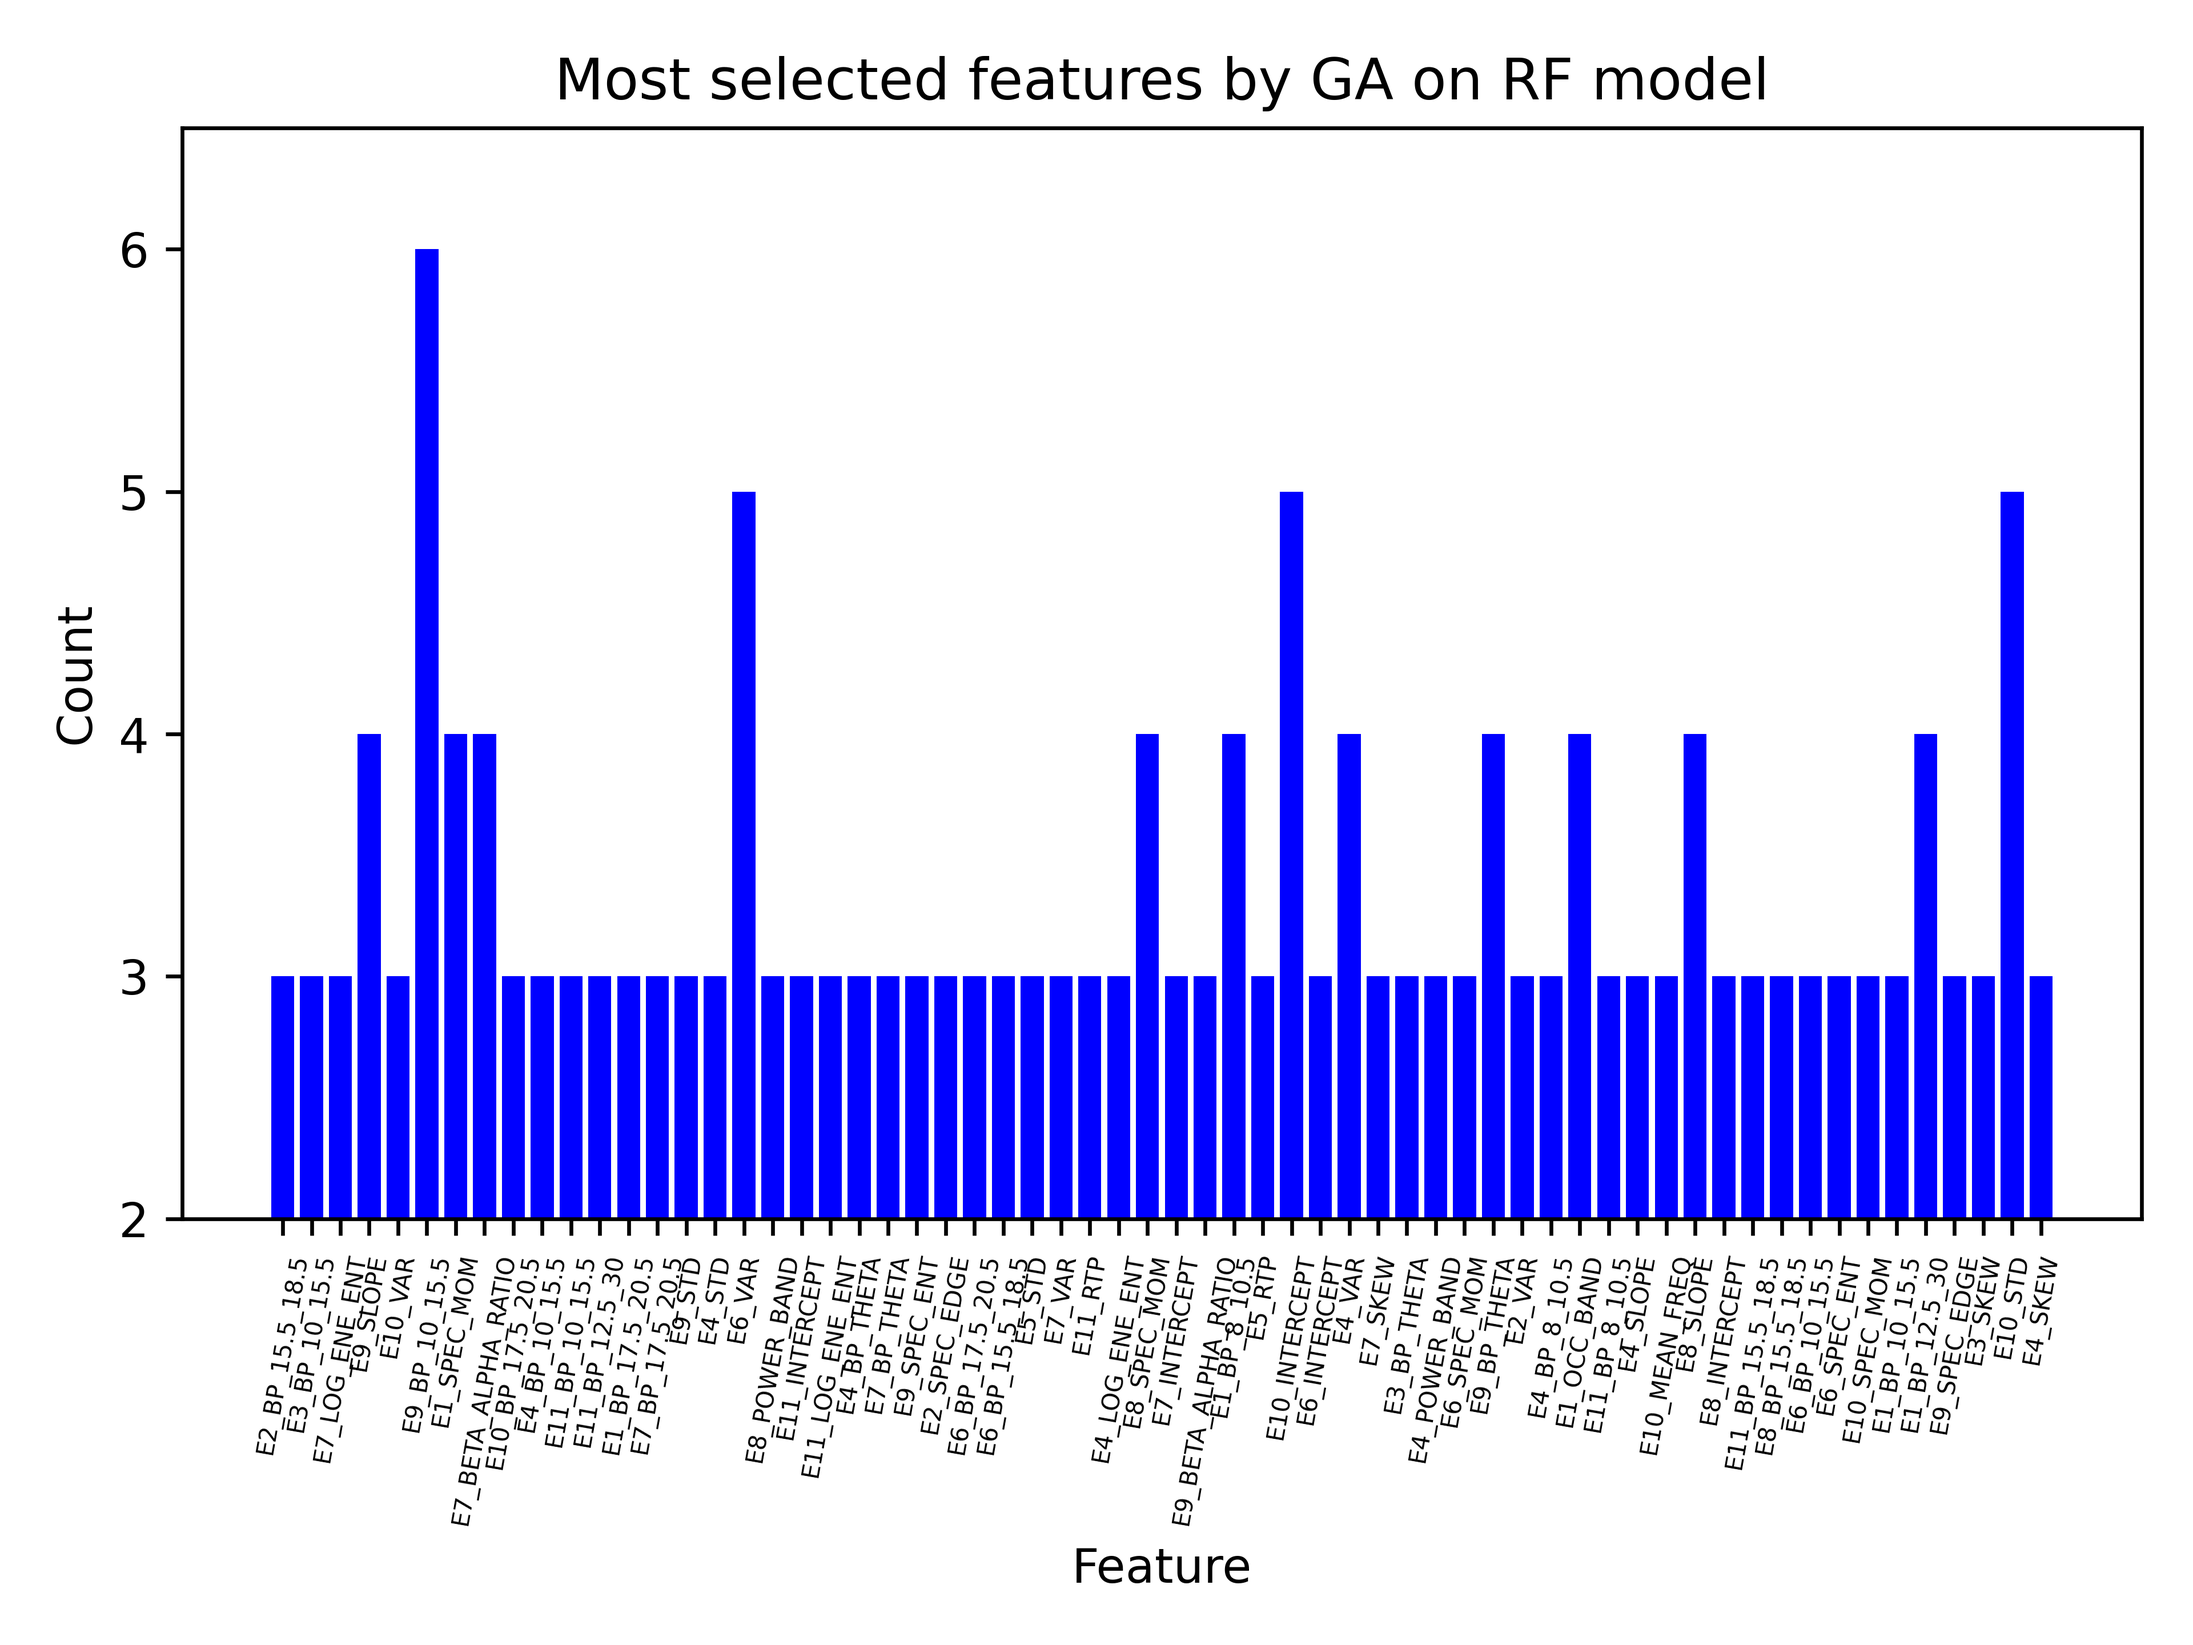
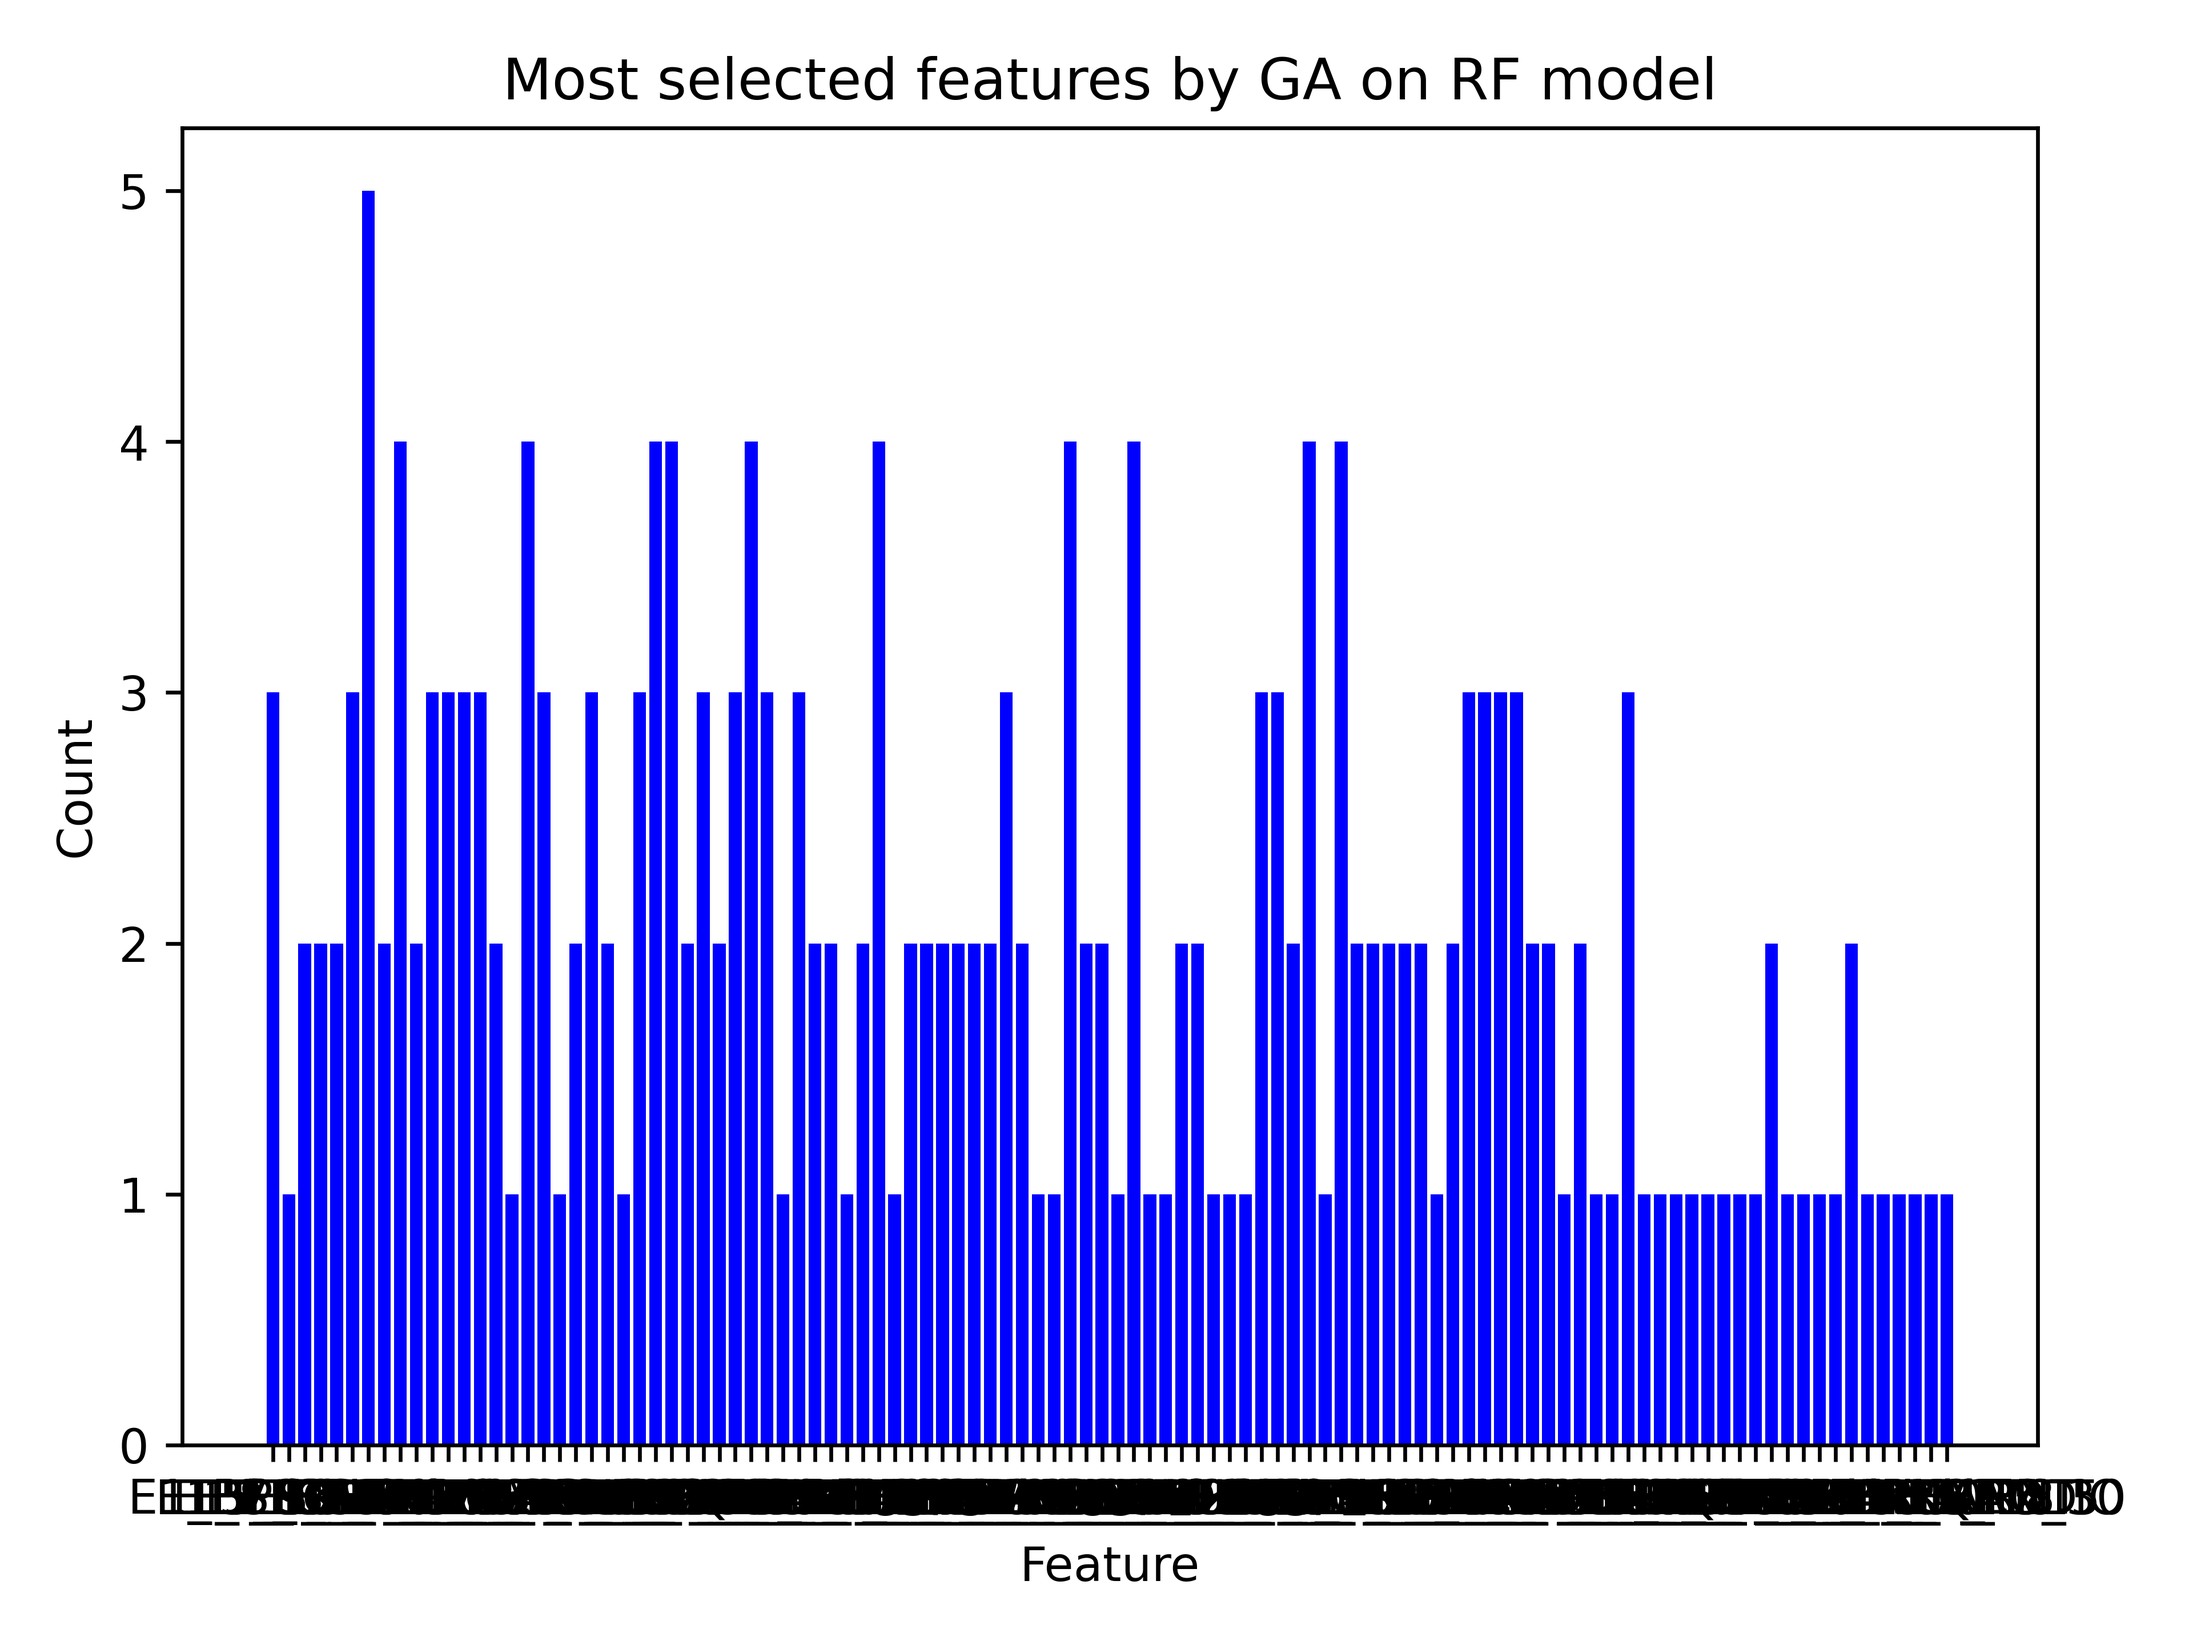
ga hists fixed

Changed region(s): [[0.0625, 0.125, 0.9688, 0.9688], [0.2188, 0.0312, 0.8125, 0.0625], [0.0312, 0.375, 0.0625, 0.5]]

diff --git a/ModelsUtils.py b/ModelsUtils.py
@@ -12,9 +12,11 @@ from_name_to_index = Utils.from_feature_name_to_index
 
 def reduce_ga_search_space(features: np.ndarray, model_name):
     hists_ga: dict = Utils.load_from_pickle('stats\\ga_models_features_hists')
-    hist: dict = hists_ga[model_name]
+    hist: dict = hists_ga.get(model_name)
+    if hist is None:
+        return features, [True] * len(headers)
     mask = [feature in hist.keys() for feature in headers]
-    return features[:,mask]
+    return features[:,mask], mask
 
 
 # CROSS-VALIDATION
@@ -104,15 +106,15 @@ def classify_results_ga(selection_params, features_train, label_train, features_
         mutation_independent_proba = selection_params['muta_ind_prob'],
         crossover_independent_proba = selection_params['cross_ind_prob']
     )
-    reduced_features = reduce_ga_search_space(features=features_train, model_name=selection_params['name'])
+    reduced_features, mask = reduce_ga_search_space(features=features_train, model_name=selection_params['name'])
     print(reduced_features.shape)
     selector = selector.fit(reduced_features, label_train)
     chosen_indices[selection_params["name"]] = np.array([i for i, res in enumerate(selector.support_) if res == True])
     # np.savetxt(f'{recordingFolder}\{selection_params["name"]}_ga_features.txt', headers[selector.support_], fmt='%s')
-    # Utils.create_sub_folder_for_ga_features(f'{selection_params["name"]}')
-    # np.savetxt(f'ga_features\\{selection_params["name"]}\\{folder_dict["name"]}_{folder_dict["date"]}_{folder_dict["num"]}_ga_features.txt',  headers[selector.support_], fmt='%s')
+    Utils.create_sub_folder_for_ga_features(f'{selection_params["name"]}')
+    np.savetxt(f'ga_features\\{selection_params["name"]}\\{folder_dict["name"]}_{folder_dict["date"]}_{folder_dict["num"]}_ga_features.txt',  headers[mask][selector.support_], fmt='%s')
     
-    reduced_features_test = reduce_ga_search_space(features_test, model_name=selection_params['name'])
+    reduced_features_test, _ = reduce_ga_search_space(features_test, model_name=selection_params['name'])
     prediction = selector.predict(reduced_features_test)
     test_results = prediction - label_test
     hit_rate = sum(test_results == 0)/len(label_test)
@@ -125,44 +127,9 @@ def classify_results_ga(selection_params, features_train, label_train, features_
         row = [f'{selection_params["name"]} GA', hit_rate, prediction, label_test, prediction - label_test]
 
     cv_row = []
-    reduced_all_features = reduce_ga_search_space(all_features.copy(), selection_params['name'])
+    reduced_all_features, _ = reduce_ga_search_space(all_features.copy(), selection_params['name'])
     if cv:
         cv_prediction = cross_validation_on_model(selection_params['model'], Kfold, reduced_all_features[:,selector.support_], all_labels)
-        hit_rate = cv_prediction[0]
-        cv_row = [f'{selection_params["name"]} GA CV', hit_rate, [], label_test, []]
-
-    return row, cv_row
-
-
-def classify_results_ga_sklearn(selection_params, features_train, label_train, features_test, label_test, recordingFolder, cv=False, Kfold=5, unify=False, chosen_indices={}, all_features=[], all_labels=[]):
-    print(f"Running {selection_params['name']} with GA features selection & analysis...")
-    selector = GAFeatureSelectionCV(
-        selection_params['model'],
-        cv = selection_params['cv'],
-        scoring = selection_params['scoring'],
-        max_features = selection_params['max_features'],
-        population_size = selection_params['n_population'],
-        crossover_probability = selection_params['cross_prob'],
-        mutation_probability = selection_params['muta_prob'],
-        generations = selection_params['n_gens'],
-        n_jobs=2
-    )
-    selector = selector.fit(features_train, label_train)
-    chosen_indices[selection_params["name"]] = np.array([i for i, res in enumerate(selector.best_features_) if res == True])
-    np.savetxt(f'{recordingFolder}\{selection_params["name"]}_ga_features_sklearn.txt', headers[selector.best_features_], fmt='%s')
-
-    prediction = selector.predict(features_test[:,selector.best_features_])
-    test_results = prediction - label_test
-    hit_rate = sum(test_results == 0)/len(label_test)
-
-    if unify:
-        row = [f'{selection_params["name"]} GA SK', hit_rate, prediction, label_test]
-    else:
-        row = [f'{selection_params["name"]} GA SK', hit_rate, prediction, label_test, prediction - label_test]
-
-    cv_row = []
-    if cv:
-        cv_prediction = cross_validation_on_model(selection_params['model'], Kfold, all_features[:,selector.best_features_], all_labels)
         hit_rate = cv_prediction[0]
         cv_row = [f'{selection_params["name"]} GA CV', hit_rate, [], label_test, []]
 
@@ -232,7 +199,7 @@ def classify_ensemble(key_name, models: dict, features, labels, test_indices, nc
     for key, model in models.items():
         if 'GA' in key:
             print(f'Here! :{features.shape}')
-            train_features = reduce_ga_search_space(features, key.replace(' GA', ''))
+            train_features, _ = reduce_ga_search_space(features, key.replace(' GA', ''))
             train_features = train_features[train_indices,:]
         else:
             train_features = features[:,nca_indices]
@@ -250,7 +217,7 @@ def classify_ensemble(key_name, models: dict, features, labels, test_indices, nc
     final_proba_matrix = np.zeros((len(test_indices), 3))
     for key, model in models.items():
         if 'GA' in key:
-            features_test = reduce_ga_search_space(features, key.replace(' GA', ''))
+            features_test, _ = reduce_ga_search_space(features, key.replace(' GA', ''))
             features_test = features_test[test_indices,:]
         else:
             features_test = features[:,nca_indices]
@@ -262,3 +229,41 @@ def classify_ensemble(key_name, models: dict, features, labels, test_indices, nc
     row = [key_name, hit_rate, prediction, label_test, prediction - label_test]
 
     return row
+
+# Maybe to bee demolished:
+"""
+def classify_results_ga_sklearn(selection_params, features_train, label_train, features_test, label_test, recordingFolder, cv=False, Kfold=5, unify=False, chosen_indices={}, all_features=[], all_labels=[]):
+    print(f"Running {selection_params['name']} with GA features selection & analysis...")
+    selector = GAFeatureSelectionCV(
+        selection_params['model'],
+        cv = selection_params['cv'],
+        scoring = selection_params['scoring'],
+        max_features = selection_params['max_features'],
+        population_size = selection_params['n_population'],
+        crossover_probability = selection_params['cross_prob'],
+        mutation_probability = selection_params['muta_prob'],
+        generations = selection_params['n_gens'],
+        n_jobs=2
+    )
+    selector = selector.fit(features_train, label_train)
+    chosen_indices[selection_params["name"]] = np.array([i for i, res in enumerate(selector.best_features_) if res == True])
+    np.savetxt(f'{recordingFolder}\{selection_params["name"]}_ga_features_sklearn.txt', headers[selector.best_features_], fmt='%s')
+
+    prediction = selector.predict(features_test[:,selector.best_features_])
+    test_results = prediction - label_test
+    hit_rate = sum(test_results == 0)/len(label_test)
+
+    if unify:
+        row = [f'{selection_params["name"]} GA SK', hit_rate, prediction, label_test]
+    else:
+        row = [f'{selection_params["name"]} GA SK', hit_rate, prediction, label_test, prediction - label_test]
+
+    cv_row = []
+    if cv:
+        cv_prediction = cross_validation_on_model(selection_params['model'], Kfold, all_features[:,selector.best_features_], all_labels)
+        hit_rate = cv_prediction[0]
+        cv_row = [f'{selection_params["name"]} GA CV', hit_rate, [], label_test, []]
+
+    return row, cv_row
+
+"""

diff --git a/ModelsParams.py b/ModelsParams.py
@@ -3,6 +3,7 @@ from sklearn.discriminant_analysis import QuadraticDiscriminantAnalysis as QDA
 from sklearn.neighbors import KNeighborsClassifier as KNN
 from sklearn.svm import SVC
 from sklearn.naive_bayes import BernoulliNB as NB
+from sklearn.linear_model import LogisticRegression as LR
 from sklearn.ensemble import RandomForestClassifier as RF
 from sklearn.tree import DecisionTreeClassifier as DT
 from sklearn.ensemble import GradientBoostingClassifier as GB
@@ -22,8 +23,9 @@ def build_models(our_features_indices=[], train_features_stats=[], test_features
         {'name': 'SVC', 'model': SVC(probability=True), 'cv': True},
         # {'name': 'SVC STA', 'model': SVC(probability=True), 'cv': True, 'indices': our_features_indices, 'ftr': train_features_stats, 'fte': test_features_stats, 'ltr': labels_train_stats, 'lte': labels_test_stats},
         {'name': 'NB', 'model': NB(), 'cv': False},
+        {'name': 'LR', 'model': LR(), 'cv': True},
         # {'name': 'NB STA', 'model': NB(), 'cv': False, 'indices': our_features_indices, 'ftr': train_features_stats, 'fte': test_features_stats, 'ltr': labels_train_stats, 'lte': labels_test_stats},
-        {'name': 'RF', 'model': RF(criterion='entropy', min_samples_split=3), 'cv': True},
+        # {'name': 'RF', 'model': RF(criterion='entropy', min_samples_split=3), 'cv': True},
         # {'name': 'RF STA', 'model': RF(criterion='entropy'), 'cv': True, 'indices': our_features_indices, 'ftr': train_features_stats, 'fte': test_features_stats, 'ltr': labels_train_stats, 'lte': labels_test_stats},
         # {'name': 'DT', 'model': DT(min_samples_split=3), 'cv': True},
         # {'name': 'DT STA', 'model': DT(), 'cv': True, 'indices': our_features_indices, 'ftr': train_features_stats, 'fte': test_features_stats, 'ltr': labels_train_stats, 'lte': labels_test_stats},
@@ -113,18 +115,31 @@ def build_ga_models(num_max_features):
          "muta_ind_prob": 0.025,
          "cross_ind_prob": 0.8 },
 
-         {'name': 'RF', 
-         'model': RF(criterion='entropy', n_estimators=50, min_samples_split=3),
-         'cv': 3,
-         "scoring": "accuracy",
-         "max_features": num_max_features,
-         "n_population": 153,
-         "cross_prob": 0.5,
-         "muta_prob": 0.2,
-         "n_gens": 30,
-         "caching": True,
-         "muta_ind_prob": 0.025,
-         "cross_ind_prob": 0.8 },
+          {'name': 'LR', 
+          'model': LR(),
+          'cv': 3,
+          "scoring": "accuracy",
+          "max_features": num_max_features,
+          "n_population": 153,
+          "cross_prob": 0.5,
+          "muta_prob": 0.2,
+          "n_gens": 60,
+          "caching": True,
+          "muta_ind_prob": 0.025,
+          "cross_ind_prob": 0.8 }, 
+
+        #  {'name': 'RF', 
+        #  'model': RF(criterion='entropy', n_estimators=50, min_samples_split=3),
+        #  'cv': 3,
+        #  "scoring": "accuracy",
+        #  "max_features": num_max_features,
+        #  "n_population": 153,
+        #  "cross_prob": 0.5,
+        #  "muta_prob": 0.2,
+        #  "n_gens": 30,
+        #  "caching": True,
+        #  "muta_ind_prob": 0.025,
+        #  "cross_ind_prob": 0.8 },
 
         # {'name': 'DT', 
         #  'model': DT(),

diff --git a/OurGraphs.py b/OurGraphs.py
@@ -66,11 +66,11 @@ def get_ga_features() -> dict():
     for subdir, _, _ in os.walk('ga_features'):
         if subdir == 'ga_features':
             continue
-        print(subdir)
         if subdir.count('\\') < 2:
             continue
         for _, _, files_s in os.walk(subdir):
             hist = {}
+            print(subdir)
             subdir_list = Path(subdir).parts
             model_name = subdir_list[-1]
             for file in files_s:
@@ -90,18 +90,21 @@ def show_hist_ga():
     all_hist = get_ga_features()
 
     for model, hist in all_hist.items():
-        plt.bar(hist.keys(), hist.values(), color='b')
-        plt.title(f'Most selected features by GA on {model} model')
-        plt.xlabel('Feature')
-        plt.ylabel('Count')
-        plt.ylim((2,6.5))
-        plt.xticks(fontsize=5, rotation=80)
-        plt.yticks(np.arange(2, 6.5, step=1))
-        plt.tight_layout()
-        plt.savefig(f'ga_hists/{model}_hist', dpi=600)
+        fig = plt.figure()
+        ax = fig.add_subplot(1,1,1)
+        ax.bar(hist.keys(), list(hist.values()), color='b')
+        print(f'{model}: {list(hist.values())}')
+        ax.set_title(f'Most selected features by GA on {model} model')
+        ax.set_xlabel('Feature')
+        ax.set_ylabel('Count')
+        fig.tight_layout()
+        fig.savefig(f'ga_hists/{model}_hist', dpi=600)
+        fig.clear()
+        
+        
 
 
 if __name__ == "__main__":
     # show_hist_ga()
     # get_models_scores()
-    print(get_ga_features())
+    show_hist_ga()
